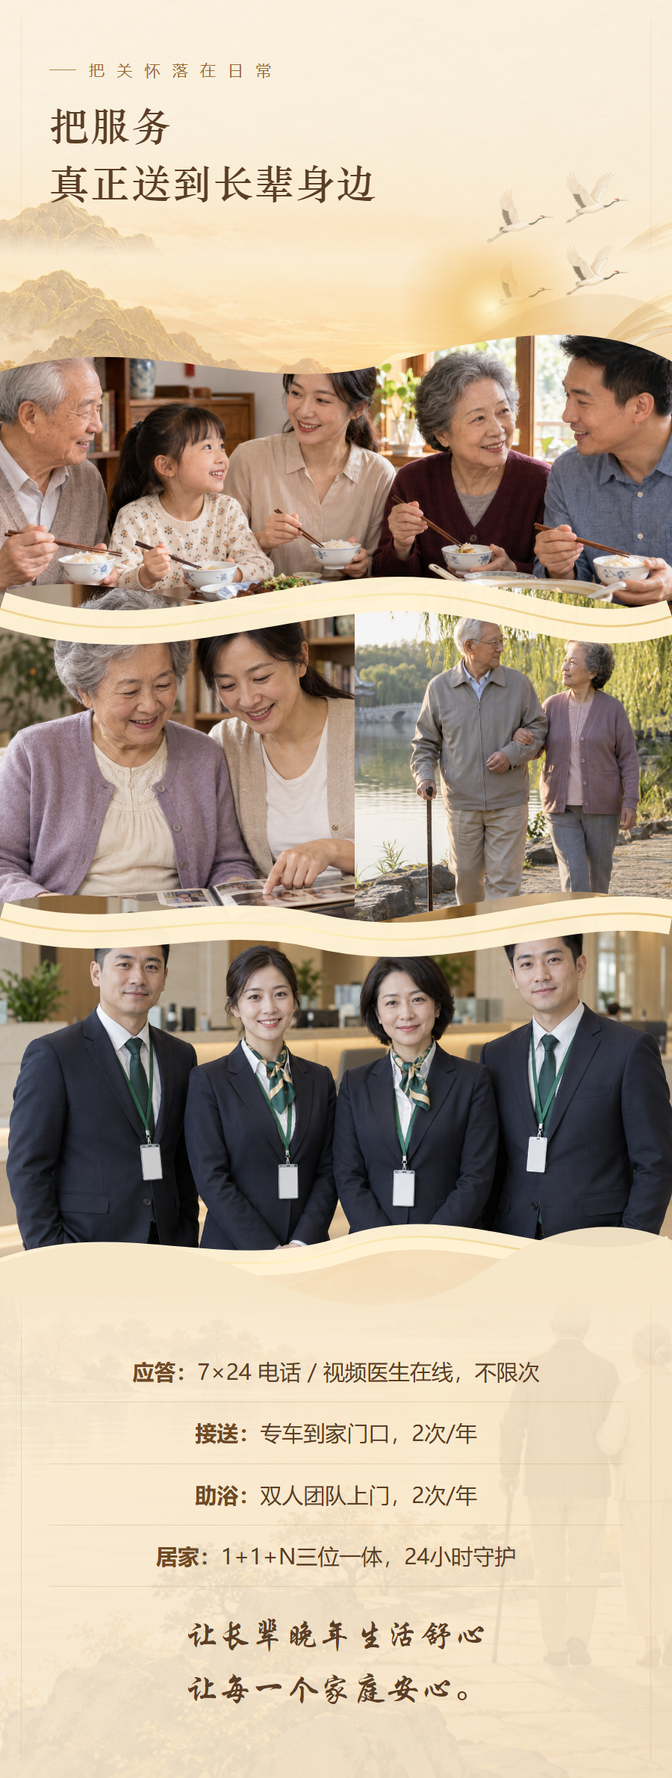
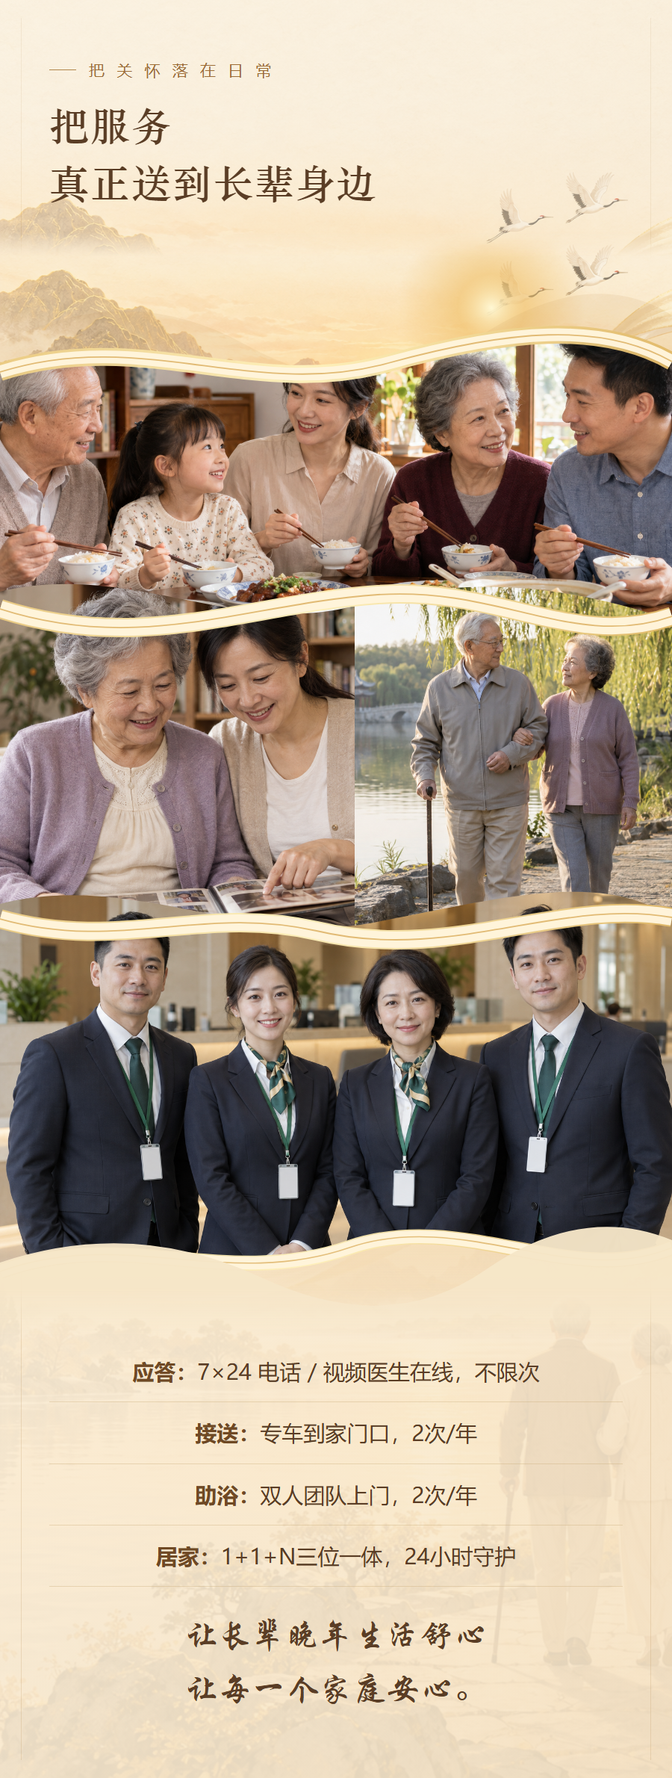
Restore V5 ribbons and refine mobile cover

diff --git a/anxiang-svg/native-preview.html b/anxiang-svg/native-preview.html
@@ -1,42 +1,41 @@
-<!doctype html><meta charset="utf-8"><meta name="viewport" content="width=device-width,initial-scale=1"><style>*{box-sizing:border-box}html,body{margin:0;background:#f7ead2}main{max-width:900px;margin:auto}</style><main><svg xmlns="http://www.w3.org/2000/svg" xmlns:xlink="http://www.w3.org/1999/xlink" id="ax8_root" width="900" viewBox="0 0 900 1950" preserveAspectRatio="xMinYMin meet" style="display:block;width:100%;height:auto;overflow:hidden;overflow-anchor:none;-webkit-tap-highlight-color:transparent;user-select:none;background:#f7ead2">
+<!doctype html><meta charset="utf-8"><meta name="viewport" content="width=device-width,initial-scale=1"><style>*{box-sizing:border-box}html,body{margin:0;background:#f7ead2}main{max-width:900px;margin:auto}</style><main><svg xmlns="http://www.w3.org/2000/svg" xmlns:xlink="http://www.w3.org/1999/xlink" id="ax8_root" width="900" viewBox="0 0 900 1480" preserveAspectRatio="xMinYMin meet" style="display:block;width:100%;height:auto;overflow:hidden;overflow-anchor:none;-webkit-tap-highlight-color:transparent;user-select:none;background:#f7ead2">
 <defs>
  <radialGradient id="ax8_sun"><stop stop-color="#fff8cf" stop-opacity=".85"/><stop offset=".35" stop-color="#ffd78c" stop-opacity=".42"/><stop offset="1" stop-color="#ffd78c" stop-opacity="0"/></radialGradient>
  <linearGradient id="ax8_gold" x1="0" x2="1"><stop stop-color="#d2a14e"/><stop offset=".48" stop-color="#f7dda0"/><stop offset=".78" stop-color="#fff3bd"/><stop offset="1" stop-color="#c58b35"/></linearGradient>
  <linearGradient id="ax8_shine" x1="0" x2="1"><stop stop-color="#fff" stop-opacity="0"/><stop offset=".5" stop-color="#fff5c0" stop-opacity=".8"/><stop offset="1" stop-color="#fff" stop-opacity="0"/></linearGradient>
  <linearGradient id="ax8_mist" x1="0" x2="1"><stop stop-color="#f7ead5"/><stop offset=".74" stop-color="#f9ecd7"/><stop offset="1" stop-color="#f9ecd7" stop-opacity=".72"/></linearGradient>
- <linearGradient id="ax8_edge" x1="0" x2="1"><stop stop-color="#c89039"/><stop offset=".3" stop-color="#f1cf78"/><stop offset=".57" stop-color="#fff1ad"/><stop offset=".8" stop-color="#dfae50"/><stop offset="1" stop-color="#b8792d"/></linearGradient><linearGradient id="ax8_coverExtension" x1="0" y1="0" x2="0" y2="1"><stop stop-color="#f6e6c7"/><stop offset="1" stop-color="#edcf99"/></linearGradient>
+ <linearGradient id="ax8_coverExtension" x1="0" y1="0" x2="0" y2="1"><stop stop-color="#f3dfbb"/><stop offset="1" stop-color="#efd2a0"/></linearGradient><linearGradient id="ax8_coverFade" x1="0" y1="0" x2="0" y2="1"><stop stop-color="#f5e1c1" stop-opacity="0"/><stop offset=".72" stop-color="#f5e1c1"/><stop offset="1" stop-color="#f3dfbb"/></linearGradient>
  <clipPath id="ax8_cardBirdA"><rect x="688" y="35" width="132" height="112"/></clipPath><clipPath id="ax8_cardBirdB"><rect x="802" y="75" width="98" height="100"/></clipPath>
  <clipPath id="ax8_formula1"><rect x="36" y="220" width="243" height="220"/></clipPath><clipPath id="ax8_formula2"><rect x="279" y="220" width="306" height="220"/></clipPath><clipPath id="ax8_formula3"><rect x="576" y="220" width="288" height="220"/></clipPath>
  <clipPath id="ax8_close1"><rect x="130" y="165" width="0" height="105"><animate attributeName="width" from="0" to="640" dur="1.7s" begin="ax8_open.click+7.1s" fill="freeze"/></rect></clipPath><clipPath id="ax8_close2"><rect x="150" y="260" width="0" height="110"><animate attributeName="width" from="0" to="610" dur="1.8s" begin="ax8_open.click+8.55s" fill="freeze"/></rect></clipPath>
 </defs>
-<animate attributeName="viewBox" values="0 0 900 1950;0 0 900 3300;0 0 900 4650;0 0 900 6130;0 0 900 7446;0 0 900 8778;0 0 900 10898;0 0 900 13278;0 0 900 14608" begin="ax8_open.click" dur="7.2s" calcMode="linear" keyTimes="0.000;0.125;0.250;0.375;0.500;0.625;0.750;0.875;1.000" fill="freeze" restart="never"/>
-<rect x="0" y="0" width="900" height="1950" fill="url(#ax8_coverExtension)"/><image href="images/01.png" x="0" y="0" width="900" height="1350" preserveAspectRatio="none"/><path d="M0 1420 C160 1372 290 1460 455 1415 C610 1372 748 1450 900 1408 V1950 H0Z" fill="#e9c991" opacity=".18"/><path d="M-30 1530 C150 1488 310 1578 480 1525 C650 1475 790 1565 930 1515" fill="none" stroke="#fff0c9" stroke-width="8" opacity=".42"/>
-<image href="images/02.png" x="0" y="1950" width="900" height="1350" preserveAspectRatio="none"/>
-<image href="motion-bg/03.png" x="0" y="3300" width="900" height="1350" preserveAspectRatio="none"/>
-<image href="motion-bg/04.png" x="0" y="4650" width="900" height="1480" preserveAspectRatio="none"/>
-<image href="motion-bg/05.png" x="0" y="6130" width="900" height="1316" preserveAspectRatio="none"/>
-<image href="motion-bg/06.png" x="0" y="7446" width="900" height="1332" preserveAspectRatio="none"/>
-<image href="motion-bg/07.png" x="0" y="8778" width="900" height="2120" preserveAspectRatio="none"/>
-<image href="images/08.png" x="0" y="10898" width="900" height="2380" preserveAspectRatio="none"/>
-<image href="motion-bg/09.png" x="0" y="13278" width="900" height="1330" preserveAspectRatio="none"/>
+<animate attributeName="viewBox" values="0 0 900 1480;0 0 900 2830;0 0 900 4180;0 0 900 5660;0 0 900 6976;0 0 900 8308;0 0 900 10428;0 0 900 12808;0 0 900 14138" begin="ax8_open.click" dur="7.2s" calcMode="linear" keyTimes="0.000;0.125;0.250;0.375;0.500;0.625;0.750;0.875;1.000" fill="freeze" restart="never"/>
+<rect x="0" y="0" width="900" height="1480" fill="url(#ax8_coverExtension)"/><image href="images/01.png" x="0" y="0" width="900" height="1350" preserveAspectRatio="none"/><rect x="0" y="1298" width="900" height="92" fill="url(#ax8_coverFade)"/>
+<image href="images/02.png" x="0" y="1480" width="900" height="1350" preserveAspectRatio="none"/>
+<image href="motion-bg/03.png" x="0" y="2830" width="900" height="1350" preserveAspectRatio="none"/>
+<image href="motion-bg/04.png" x="0" y="4180" width="900" height="1480" preserveAspectRatio="none"/>
+<image href="motion-bg/05.png" x="0" y="5660" width="900" height="1316" preserveAspectRatio="none"/>
+<image href="motion-bg/06.png" x="0" y="6976" width="900" height="1332" preserveAspectRatio="none"/>
+<image href="motion-bg/07.png" x="0" y="8308" width="900" height="2120" preserveAspectRatio="none"/>
+<image href="images/08.png" x="0" y="10428" width="900" height="2380" preserveAspectRatio="none"/>
+<image href="motion-bg/09.png" x="0" y="12808" width="900" height="1330" preserveAspectRatio="none"/>
 <ellipse cx="675" cy="516" rx="135" ry="110" fill="url(#ax8_sun)" opacity=".13"><animate attributeName="opacity" values=".13;.25;.13" dur="5.8s" repeatCount="3"/></ellipse>
 <rect x="26" y="142" width="255" height="438" rx="28" fill="url(#ax8_mist)" opacity=".98"><animate attributeName="x" from="26" to="281" dur="1.05s" begin=".25s" fill="freeze"/><animate attributeName="width" from="255" to="0" dur="1.05s" begin=".25s" fill="freeze"/><animate attributeName="opacity" from=".98" to="0" dur="1.05s" begin=".25s" fill="freeze"/></rect><rect x="154" y="485" width="76" height="112" rx="16" fill="url(#ax8_mist)" opacity=".99"><animate attributeName="x" from="154" to="230" dur=".8s" begin="1.2s" fill="freeze"/><animate attributeName="width" from="76" to="0" dur=".8s" begin="1.2s" fill="freeze"/><animate attributeName="opacity" from=".99" to="0" dur=".8s" begin="1.2s" fill="freeze"/></rect><rect x="246" y="156" width="630" height="298" rx="32" fill="url(#ax8_mist)" opacity=".97"><animate attributeName="x" from="246" to="876" dur="1.15s" begin="1.85s" fill="freeze"/><animate attributeName="width" from="630" to="0" dur="1.15s" begin="1.85s" fill="freeze"/><animate attributeName="opacity" from=".97" to="0" dur="1.15s" begin="1.85s" fill="freeze"/></rect>
-<path d="M-18 475 C78 487 83 593 180 635 C276 677 315 801 425 800 C535 790 565 730 665 735 C760 745 830 785 918 822" fill="none" stroke="#8e5e25" stroke-opacity=".32" stroke-width="28" stroke-linecap="round"/><path d="M-18 475 C78 487 83 593 180 635 C276 677 315 801 425 800 C535 790 565 730 665 735 C760 745 830 785 918 822" fill="none" stroke="url(#ax8_edge)" stroke-width="20" stroke-linecap="round"/><path d="M-18 470 C78 482 83 588 180 630 C276 672 315 796 425 795 C535 785 565 725 665 730 C760 740 830 780 918 817" fill="none" stroke="#fff0ad" stroke-opacity=".68" stroke-width="4" stroke-linecap="round"/>
-<g id="ax8_hint" transform="translate(225 1690)"><rect width="450" height="92" rx="46" fill="#fff4d8" fill-opacity=".9" stroke="#a87332" stroke-opacity=".55"/><circle cx="88" cy="46" r="9" fill="#b88035"><animate attributeName="r" values="9;14;9" dur="1.6s" repeatCount="indefinite"/></circle><text x="122" y="57" font-size="32" fill="#68451f" font-family="Microsoft YaHei,PingFang SC,sans-serif" letter-spacing="3">点击查看服务</text><set attributeName="visibility" to="hidden" begin="ax8_open.click" fill="freeze"/></g>
-<rect id="ax8_open" x="0" y="0" width="900" height="1950" fill="#fff" fill-opacity="0" pointer-events="all" style="-webkit-tap-highlight-color:transparent"/><set href="#ax8_open" attributeName="visibility" to="hidden" begin="ax8_open.click+7.3s" fill="freeze"/>
+<g id="ax8_hint" transform="translate(282 1380)" fill="#68451f"><circle cx="20" cy="22" r="8" fill="#b88035"><animate attributeName="r" values="8;6;8" dur="1.6s" repeatCount="indefinite"/></circle><circle cx="20" cy="22" r="17" fill="none" stroke="#b88035" stroke-width="2" opacity=".5"><animate attributeName="r" values="17;22;17" dur="1.6s" repeatCount="indefinite"/><animate attributeName="opacity" values=".5;.16;.5" dur="1.6s" repeatCount="indefinite"/></circle><text x="56" y="33" font-size="30" font-family="Microsoft YaHei,PingFang SC,sans-serif" letter-spacing="3">点击查看服务</text><set attributeName="visibility" to="hidden" begin="ax8_open.click" fill="freeze"/></g>
+<rect id="ax8_open" x="0" y="0" width="900" height="1480" fill="#fff" fill-opacity="0" pointer-events="all" style="-webkit-tap-highlight-color:transparent"/><set href="#ax8_open" attributeName="visibility" to="hidden" begin="ax8_open.click+7.3s" fill="freeze"/>
 <!-- 第二页：封面点击后打开书，正文四行依次显露 -->
-<g transform="translate(0 1950)"><rect x="0" y="270" width="900" height="520" fill="#f8e8cc"><animate attributeName="opacity" from="1" to="0" dur=".9s" begin="ax8_open.click+1.75s" fill="freeze"/></rect><rect x="105" y="445" width="690" height="58" fill="#f8e8cc"><animate attributeName="fill" from="#f8e8cc" to="#fff6e6" dur=".15s" begin="ax8_open.click+2.1s" fill="freeze"/><animate attributeName="width" from="690" to="0" dur=".48s" begin="ax8_open.click+2.65s" fill="freeze"/></rect><rect x="105" y="501" width="690" height="58" fill="#f8e8cc"><animate attributeName="fill" from="#f8e8cc" to="#fff6e6" dur=".15s" begin="ax8_open.click+2.1s" fill="freeze"/><animate attributeName="width" from="690" to="0" dur=".48s" begin="ax8_open.click+2.9499999999999997s" fill="freeze"/></rect><rect x="105" y="557" width="690" height="58" fill="#f8e8cc"><animate attributeName="fill" from="#f8e8cc" to="#fff6e6" dur=".15s" begin="ax8_open.click+2.1s" fill="freeze"/><animate attributeName="width" from="690" to="0" dur=".48s" begin="ax8_open.click+3.25s" fill="freeze"/></rect><rect x="105" y="613" width="690" height="58" fill="#f8e8cc"><animate attributeName="fill" from="#f8e8cc" to="#fff6e6" dur=".15s" begin="ax8_open.click+2.1s" fill="freeze"/><animate attributeName="width" from="690" to="0" dur=".48s" begin="ax8_open.click+3.55s" fill="freeze"/></rect><g transform="translate(294 326)"><g><rect x="-18" y="18" width="344" height="402" rx="21" fill="#855124" opacity=".72"/><rect x="0" y="0" width="330" height="410" rx="20" fill="url(#ax8_gold)" stroke="#8d5726" stroke-width="5"/><rect x="15" y="16" width="299" height="378" rx="13" fill="none" stroke="#f6dc91" stroke-width="3" opacity=".72"/><rect x="0" y="0" width="30" height="410" rx="14" fill="#8f5825" opacity=".9"/><circle cx="164" cy="204" r="60" fill="none" stroke="#f8e2a0" stroke-width="4" opacity=".72"/><path d="M164 164 L202 204 L164 244 L126 204Z" fill="none" stroke="#f8e2a0" stroke-width="4" opacity=".72"/><animateTransform attributeName="transform" type="scale" values="1 1;.06 1" dur="1.15s" begin="ax8_open.click+1.75s" fill="freeze"/><animate attributeName="opacity" from="1" to="0" dur=".82s" begin="ax8_open.click+1.95s" fill="freeze"/></g></g><ellipse cx="748" cy="228" rx="95" ry="75" fill="url(#ax8_sun)" opacity=".08"><animate attributeName="opacity" values=".08;.18;.08" dur="5s" begin="ax8_open.click+1.7s" repeatCount="3"/></ellipse></g>
+<g transform="translate(0 1480)"><rect x="0" y="270" width="900" height="520" fill="#f8e8cc"><animate attributeName="opacity" from="1" to="0" dur=".9s" begin="ax8_open.click+1.75s" fill="freeze"/></rect><rect x="105" y="445" width="690" height="58" fill="#f8e8cc"><animate attributeName="fill" from="#f8e8cc" to="#fff6e6" dur=".15s" begin="ax8_open.click+2.1s" fill="freeze"/><animate attributeName="width" from="690" to="0" dur=".48s" begin="ax8_open.click+2.65s" fill="freeze"/></rect><rect x="105" y="501" width="690" height="58" fill="#f8e8cc"><animate attributeName="fill" from="#f8e8cc" to="#fff6e6" dur=".15s" begin="ax8_open.click+2.1s" fill="freeze"/><animate attributeName="width" from="690" to="0" dur=".48s" begin="ax8_open.click+2.9499999999999997s" fill="freeze"/></rect><rect x="105" y="557" width="690" height="58" fill="#f8e8cc"><animate attributeName="fill" from="#f8e8cc" to="#fff6e6" dur=".15s" begin="ax8_open.click+2.1s" fill="freeze"/><animate attributeName="width" from="690" to="0" dur=".48s" begin="ax8_open.click+3.25s" fill="freeze"/></rect><rect x="105" y="613" width="690" height="58" fill="#f8e8cc"><animate attributeName="fill" from="#f8e8cc" to="#fff6e6" dur=".15s" begin="ax8_open.click+2.1s" fill="freeze"/><animate attributeName="width" from="690" to="0" dur=".48s" begin="ax8_open.click+3.55s" fill="freeze"/></rect><g transform="translate(294 326)"><g><rect x="-18" y="18" width="344" height="402" rx="21" fill="#855124" opacity=".72"/><rect x="0" y="0" width="330" height="410" rx="20" fill="url(#ax8_gold)" stroke="#8d5726" stroke-width="5"/><rect x="15" y="16" width="299" height="378" rx="13" fill="none" stroke="#f6dc91" stroke-width="3" opacity=".72"/><rect x="0" y="0" width="30" height="410" rx="14" fill="#8f5825" opacity=".9"/><circle cx="164" cy="204" r="60" fill="none" stroke="#f8e2a0" stroke-width="4" opacity=".72"/><path d="M164 164 L202 204 L164 244 L126 204Z" fill="none" stroke="#f8e2a0" stroke-width="4" opacity=".72"/><animateTransform attributeName="transform" type="scale" values="1 1;.06 1" dur="1.15s" begin="ax8_open.click+1.75s" fill="freeze"/><animate attributeName="opacity" from="1" to="0" dur=".82s" begin="ax8_open.click+1.95s" fill="freeze"/></g></g><ellipse cx="748" cy="228" rx="95" ry="75" fill="url(#ax8_sun)" opacity=".08"><animate attributeName="opacity" values=".08;.18;.08" dur="5s" begin="ax8_open.click+1.7s" repeatCount="3"/></ellipse></g>
 <!-- 第三页：四卡自动柔光 -->
-<g transform="translate(0 3300)"><path d="M-160 622 L-60 622 L150 950 L40 950Z" fill="url(#ax8_shine)" opacity="0"><animate attributeName="opacity" values="0;.65;0" dur="2.4s" begin="ax8_open.click+3s" repeatCount="2"/><animateTransform attributeName="transform" type="translate" from="0 0" to="1000 0" dur="2.4s" begin="ax8_open.click+3s" repeatCount="2"/></path><g clip-path="url(#ax8_cardBirdA)"><image href="images/03.png" width="900" height="1350"><animateTransform attributeName="transform" type="translate" values="0 0;7 -4;0 0" dur="7s" begin="ax8_open.click+2.7s" repeatCount="3"/></image></g><g clip-path="url(#ax8_cardBirdB)"><image href="images/03.png" width="900" height="1350"><animateTransform attributeName="transform" type="translate" values="0 0;-5 4;0 0" dur="9s" begin="ax8_open.click+2.7s" repeatCount="3"/></image></g></g>
-<g transform="translate(0 3300)"><g transform="translate(66 175)"><g><image href="title-layers/03.png" x="-66" y="-175" width="900" height="1350" preserveAspectRatio="none"/><animateTransform attributeName="transform" type="scale" values="1;1.03;1" dur=".72s" begin="v8_title3_hit.click" repeatCount="3"/></g></g><rect id="v8_title3_hit" x="45" y="65" width="810" height="260" fill="#fff" fill-opacity="0" pointer-events="all" style="-webkit-tap-highlight-color:transparent"/></g>
-<g transform="translate(0 4650)"><g transform="translate(66 121)"><g><image href="title-layers/04.png" x="-66" y="-121" width="900" height="1480" preserveAspectRatio="none"/><animateTransform attributeName="transform" type="scale" values="1;1.03;1" dur=".72s" begin="v8_title4_hit.click" repeatCount="3"/></g></g><rect id="v8_title4_hit" x="45" y="65" width="810" height="260" fill="#fff" fill-opacity="0" pointer-events="all" style="-webkit-tap-highlight-color:transparent"/></g>
-<g transform="translate(0 6130)"><g transform="translate(66 121)"><g><image href="title-layers/05.png" x="-66" y="-121" width="900" height="1316" preserveAspectRatio="none"/><animateTransform attributeName="transform" type="scale" values="1;1.03;1" dur=".72s" begin="v8_title5_hit.click" repeatCount="3"/></g></g><rect id="v8_title5_hit" x="45" y="65" width="810" height="260" fill="#fff" fill-opacity="0" pointer-events="all" style="-webkit-tap-highlight-color:transparent"/></g>
-<g transform="translate(0 7446)"><g transform="translate(66 121)"><g><image href="title-layers/06.png" x="-66" y="-121" width="900" height="1332" preserveAspectRatio="none"/><animateTransform attributeName="transform" type="scale" values="1;1.03;1" dur=".72s" begin="v8_title6_hit.click" repeatCount="3"/></g></g><rect id="v8_title6_hit" x="45" y="65" width="810" height="260" fill="#fff" fill-opacity="0" pointer-events="all" style="-webkit-tap-highlight-color:transparent"/></g>
-<g transform="translate(0 8778)"><g transform="translate(66 117)"><g><image href="title-layers/07.png" x="-66" y="-117" width="900" height="2120" preserveAspectRatio="none"/><animateTransform attributeName="transform" type="scale" values="1;1.03;1" dur=".72s" begin="v8_title7_hit.click" repeatCount="3"/></g></g><rect id="v8_title7_hit" x="45" y="65" width="810" height="260" fill="#fff" fill-opacity="0" pointer-events="all" style="-webkit-tap-highlight-color:transparent"/></g>
-<g transform="translate(0 8778)"><g clip-path="url(#ax8_formula1)" opacity="0" transform="translate(-108 0)"><image href="formula-layers/07.png" width="900" height="2120"/><animate attributeName="opacity" from="0" to="1" dur=".78s" begin="v8_title7_hit.click+.16s" fill="freeze"/><animateTransform attributeName="transform" type="translate" from="-108 0" to="0 0" dur=".78s" begin="v8_title7_hit.click+.16s" fill="freeze"/></g><g clip-path="url(#ax8_formula2)" opacity="0" transform="translate(-108 0)"><image href="formula-layers/07.png" width="900" height="2120"/><animate attributeName="opacity" from="0" to="1" dur=".82s" begin="v8_title7_hit.click+.58s" fill="freeze"/><animateTransform attributeName="transform" type="translate" from="-108 0" to="0 0" dur=".82s" begin="v8_title7_hit.click+.58s" fill="freeze"/></g><g clip-path="url(#ax8_formula3)" opacity="0" transform="translate(-108 0)"><image href="formula-layers/07.png" width="900" height="2120"/><animate attributeName="opacity" from="0" to="1" dur=".86s" begin="v8_title7_hit.click+1.02s" fill="freeze"/><animateTransform attributeName="transform" type="translate" from="-108 0" to="0 0" dur=".86s" begin="v8_title7_hit.click+1.02s" fill="freeze"/></g></g>
+<g transform="translate(0 2830)"><path d="M-160 622 L-60 622 L150 950 L40 950Z" fill="url(#ax8_shine)" opacity="0"><animate attributeName="opacity" values="0;.65;0" dur="2.4s" begin="ax8_open.click+3s" repeatCount="2"/><animateTransform attributeName="transform" type="translate" from="0 0" to="1000 0" dur="2.4s" begin="ax8_open.click+3s" repeatCount="2"/></path><g clip-path="url(#ax8_cardBirdA)"><image href="images/03.png" width="900" height="1350"><animateTransform attributeName="transform" type="translate" values="0 0;7 -4;0 0" dur="7s" begin="ax8_open.click+2.7s" repeatCount="3"/></image></g><g clip-path="url(#ax8_cardBirdB)"><image href="images/03.png" width="900" height="1350"><animateTransform attributeName="transform" type="translate" values="0 0;-5 4;0 0" dur="9s" begin="ax8_open.click+2.7s" repeatCount="3"/></image></g></g>
+<g transform="translate(0 2830)"><g transform="translate(66 175)"><g><image href="title-layers/03.png" x="-66" y="-175" width="900" height="1350" preserveAspectRatio="none"/><animateTransform attributeName="transform" type="scale" values="1;1.03;1" dur=".72s" begin="v8_title3_hit.click" repeatCount="3"/></g></g><rect id="v8_title3_hit" x="45" y="65" width="810" height="260" fill="#fff" fill-opacity="0" pointer-events="all" style="-webkit-tap-highlight-color:transparent"/></g>
+<g transform="translate(0 4180)"><g transform="translate(66 121)"><g><image href="title-layers/04.png" x="-66" y="-121" width="900" height="1480" preserveAspectRatio="none"/><animateTransform attributeName="transform" type="scale" values="1;1.03;1" dur=".72s" begin="v8_title4_hit.click" repeatCount="3"/></g></g><rect id="v8_title4_hit" x="45" y="65" width="810" height="260" fill="#fff" fill-opacity="0" pointer-events="all" style="-webkit-tap-highlight-color:transparent"/></g>
+<g transform="translate(0 5660)"><g transform="translate(66 121)"><g><image href="title-layers/05.png" x="-66" y="-121" width="900" height="1316" preserveAspectRatio="none"/><animateTransform attributeName="transform" type="scale" values="1;1.03;1" dur=".72s" begin="v8_title5_hit.click" repeatCount="3"/></g></g><rect id="v8_title5_hit" x="45" y="65" width="810" height="260" fill="#fff" fill-opacity="0" pointer-events="all" style="-webkit-tap-highlight-color:transparent"/></g>
+<g transform="translate(0 6976)"><g transform="translate(66 121)"><g><image href="title-layers/06.png" x="-66" y="-121" width="900" height="1332" preserveAspectRatio="none"/><animateTransform attributeName="transform" type="scale" values="1;1.03;1" dur=".72s" begin="v8_title6_hit.click" repeatCount="3"/></g></g><rect id="v8_title6_hit" x="45" y="65" width="810" height="260" fill="#fff" fill-opacity="0" pointer-events="all" style="-webkit-tap-highlight-color:transparent"/></g>
+<g transform="translate(0 8308)"><g transform="translate(66 117)"><g><image href="title-layers/07.png" x="-66" y="-117" width="900" height="2120" preserveAspectRatio="none"/><animateTransform attributeName="transform" type="scale" values="1;1.03;1" dur=".72s" begin="v8_title7_hit.click" repeatCount="3"/></g></g><rect id="v8_title7_hit" x="45" y="65" width="810" height="260" fill="#fff" fill-opacity="0" pointer-events="all" style="-webkit-tap-highlight-color:transparent"/></g>
+<g transform="translate(0 8308)"><g clip-path="url(#ax8_formula1)" opacity="0" transform="translate(-108 0)"><image href="formula-layers/07.png" width="900" height="2120"/><animate attributeName="opacity" from="0" to="1" dur=".78s" begin="v8_title7_hit.click+.16s" fill="freeze"/><animateTransform attributeName="transform" type="translate" from="-108 0" to="0 0" dur=".78s" begin="v8_title7_hit.click+.16s" fill="freeze"/></g><g clip-path="url(#ax8_formula2)" opacity="0" transform="translate(-108 0)"><image href="formula-layers/07.png" width="900" height="2120"/><animate attributeName="opacity" from="0" to="1" dur=".82s" begin="v8_title7_hit.click+.58s" fill="freeze"/><animateTransform attributeName="transform" type="translate" from="-108 0" to="0 0" dur=".82s" begin="v8_title7_hit.click+.58s" fill="freeze"/></g><g clip-path="url(#ax8_formula3)" opacity="0" transform="translate(-108 0)"><image href="formula-layers/07.png" width="900" height="2120"/><animate attributeName="opacity" from="0" to="1" dur=".86s" begin="v8_title7_hit.click+1.02s" fill="freeze"/><animateTransform attributeName="transform" type="translate" from="-108 0" to="0 0" dur=".86s" begin="v8_title7_hit.click+1.02s" fill="freeze"/></g></g>
 <!-- 第八页保持静态画卷，避免破坏真人照片和宽丝带 -->
 <!-- 第九页：两行主标题从左到右、从上到下依次显露 -->
-<g transform="translate(0 13278)"><g clip-path="url(#ax8_close1)"><image href="title-layers/09.png" width="900" height="1330" preserveAspectRatio="none"/></g><g clip-path="url(#ax8_close2)"><image href="title-layers/09.png" width="900" height="1330" preserveAspectRatio="none"/></g></g>
+<g transform="translate(0 12808)"><g clip-path="url(#ax8_close1)"><image href="title-layers/09.png" width="900" height="1330" preserveAspectRatio="none"/></g><g clip-path="url(#ax8_close2)"><image href="title-layers/09.png" width="900" height="1330" preserveAspectRatio="none"/></g></g>
 <!-- 第九页：湖面低透明波光，限在左侧水域 -->
-<g transform="translate(0 13278)" stroke="#fff2bb" stroke-linecap="round" opacity="0"><animate attributeName="opacity" values="0;.24;.08;0" dur="4s" begin="ax8_open.click+5s" repeatCount="2" fill="freeze"/><path d="M60 1070h135 M250 1104h110 M110 1142h180 M330 1170h170" stroke-width="3"><animateTransform attributeName="transform" type="translate" values="-7 0;8 0;-7 0" dur="3.4s" repeatCount="2"/></path></g>
+<g transform="translate(0 12808)" stroke="#fff2bb" stroke-linecap="round" opacity="0"><animate attributeName="opacity" values="0;.24;.08;0" dur="4s" begin="ax8_open.click+5s" repeatCount="2" fill="freeze"/><path d="M60 1070h135 M250 1104h110 M110 1142h180 M330 1170h170" stroke-width="3"><animateTransform attributeName="transform" type="translate" values="-7 0;8 0;-7 0" dur="3.4s" repeatCount="2"/></path></g>
 </svg></main>

diff --git a/anxiang-svg/index.html b/anxiang-svg/index.html
@@ -1,19 +1,17 @@
 <!doctype html><html lang="zh-CN"><head><meta charset="utf-8"><meta name="viewport" content="width=device-width,initial-scale=1,viewport-fit=cover"><title>农银人寿｜安享服务</title>
 <style>
-*{box-sizing:border-box}html,body{margin:0;background:#f7ead2;color:#664725;overflow-anchor:none}body{font-family:"PingFang SC","Microsoft YaHei",sans-serif;-webkit-tap-highlight-color:transparent}main{width:min(100%,900px);margin:auto;overflow:hidden;background:#f7ead2}.page{position:relative;width:100%;overflow:hidden;line-height:0}.page>img{display:block;width:100%;height:100%;object-fit:fill}.overlay{position:absolute;inset:0;width:100%;height:100%;pointer-events:none}.cover{aspect-ratio:2/3;min-height:100svh;cursor:pointer;touch-action:manipulation;user-select:none;background:linear-gradient(#f7ead2 0,#f5e3c3 74%,#edd2a2 100%)}.cover>img,.cover>.overlay{height:auto;aspect-ratio:2/3}.cover:active{filter:none}.rest{overflow:hidden}.rest>.page{max-height:0;opacity:0;transform:translateY(-18px);transition:max-height .92s cubic-bezier(.22,.65,.3,1),opacity .5s ease,transform .72s cubic-bezier(.22,.65,.3,1)}.rest>.page.unfolded{max-height:3000px;opacity:1;transform:none}.hint{animation:hintFloat 1.6s ease-in-out infinite}.hint circle{animation:dotGlow 1.6s ease-in-out infinite}@keyframes hintFloat{50%{transform:translateY(-5px)}}@keyframes dotGlow{50%{r:10px;opacity:.35}}.sun-glow{animation:sunBreath 5.8s ease-in-out infinite}@keyframes sunBreath{50%{opacity:.26;transform:scale(1.08)}}.word-veil{transform-box:fill-box;transform-origin:right center;filter:url(#mistBlur)}.word-veil.anj{animation:wordReveal 1.05s .25s cubic-bezier(.3,.7,.25,1) forwards}.word-veil.service-word{animation:wordReveal .8s 1.2s cubic-bezier(.3,.7,.25,1) forwards}.word-veil.en-word{animation:wordReveal 1.15s 1.85s cubic-bezier(.3,.7,.25,1) forwards}@keyframes wordReveal{to{transform:scaleX(0);opacity:0}}.crane-photo-a{animation:craneA 7s ease-in-out infinite}.crane-photo-b{animation:craneB 9s ease-in-out infinite}@keyframes craneA{50%{transform:translate(7px,-4px)}}@keyframes craneB{50%{transform:translate(-5px,4px)}}.book-left,.book-right{fill:#f2d6a4;stroke:#b88949;stroke-width:5;filter:drop-shadow(0 12px 12px rgba(86,54,22,.25));transform-box:fill-box;transition:transform 1.1s cubic-bezier(.2,.7,.2,1),opacity .85s}.book-left{transform-origin:right center}.book-right{transform-origin:left center}.book-spine{transition:opacity .6s .45s}.played .book-left{transform:perspective(650px) rotateY(-78deg);opacity:0}.played .book-right{transform:perspective(650px) rotateY(78deg);opacity:0}.played .book-spine{opacity:0}.text-veil{fill:#fff6e6;transition:transform .5s ease,opacity .35s;transform-origin:right center}.played .text-veil:nth-of-type(1){transition-delay:1s}.played .text-veil:nth-of-type(2){transition-delay:1.3s}.played .text-veil:nth-of-type(3){transition-delay:1.6s}.played .text-veil:nth-of-type(4){transition-delay:1.9s}.played .text-veil{transform:scaleX(0);opacity:.2}.card-shine{opacity:0}.played .card-shine{animation:cardSheen 2.4s .25s ease-in-out 2}@keyframes cardSheen{0%{opacity:0;transform:translateX(-220px)}30%{opacity:.64}70%{opacity:.2}100%{opacity:0;transform:translateX(980px)}}.title-layer{position:absolute;inset:0;width:100%;height:100%;object-fit:fill;pointer-events:none;transform-origin:7.4% 8%;clip-path:polygon(6.5% 6%,94% 6%,94% 20%,6.5% 20%)}.page-03 .title-layer{transform-origin:7.4% 13%!important}.page-07 .title-layer{clip-path:polygon(6.5% 5%,94% 5%,94% 12%,6.5% 12%)}.played .title-layer{animation:titlePulse .72s ease-in-out 3}@keyframes titlePulse{50%{transform:scale(1.045)}}.shimmer{position:absolute;left:4%;width:58%;height:2px;background:linear-gradient(90deg,transparent,rgba(255,246,195,.75),transparent);opacity:0;transform:translateX(-10px)}.played .shimmer{animation:shimmer 3.4s ease-in-out 2}.shimmer.s1{top:80%;width:47%;animation-delay:.1s}.shimmer.s2{top:83%;left:11%;width:50%;animation-delay:.55s}.shimmer.s3{top:86%;left:6%;width:39%;animation-delay:1s}.shimmer.s4{top:89%;left:18%;width:42%;animation-delay:1.45s}@keyframes shimmer{20%{opacity:.15}50%{opacity:.6;transform:translateX(9px)}85%{opacity:.12}100%{opacity:0;transform:translateX(0)}}.cover.opened .hint{opacity:0;transition:opacity .25s}.cover.opened{cursor:default}.badge{position:fixed;right:10px;bottom:10px;z-index:5;padding:6px 10px;border-radius:999px;background:rgba(255,250,238,.86);color:#82603a;font-size:12px;line-height:1;box-shadow:0 2px 12px rgba(75,45,20,.12);opacity:0;pointer-events:none}.badge.show{animation:badge 2s ease}@keyframes badge{20%,70%{opacity:1}100%{opacity:0}}
+*{box-sizing:border-box}html,body{margin:0;background:#efd2a0;color:#664725;overflow-anchor:none}body{font-family:"PingFang SC","Microsoft YaHei",sans-serif;-webkit-tap-highlight-color:transparent}main{width:min(100%,900px);margin:auto;overflow:hidden;background:#f7ead2}.page{position:relative;width:100%;overflow:hidden;line-height:0}.page>img{display:block;width:100%;height:100%;object-fit:fill}.overlay{position:absolute;inset:0;width:100%;height:100%;pointer-events:none}.cover{height:calc(min(150vw,1350px) + 58px);cursor:pointer;touch-action:manipulation;user-select:none;background:#f2dab0}.cover>img,.cover>.overlay{height:auto;aspect-ratio:2/3}.cover:active{filter:none}.rest{overflow:hidden}.rest>.page{max-height:0;opacity:0;transform:translateY(-18px);transition:max-height .92s cubic-bezier(.22,.65,.3,1),opacity .5s ease,transform .72s cubic-bezier(.22,.65,.3,1)}.rest>.page.unfolded{max-height:3000px;opacity:1;transform:none}.hint{animation:hintFloat 1.6s ease-in-out infinite}.hint circle{animation:dotGlow 1.6s ease-in-out infinite}@keyframes hintFloat{50%{transform:translateY(-5px)}}@keyframes dotGlow{50%{r:10px;opacity:.35}}.sun-glow{animation:sunBreath 5.8s ease-in-out infinite}@keyframes sunBreath{50%{opacity:.26;transform:scale(1.08)}}.word-veil{transform-box:fill-box;transform-origin:right center;filter:url(#mistBlur)}.word-veil.anj{animation:wordReveal 1.05s .25s cubic-bezier(.3,.7,.25,1) forwards}.word-veil.service-word{animation:wordReveal .8s 1.2s cubic-bezier(.3,.7,.25,1) forwards}.word-veil.en-word{animation:wordReveal 1.15s 1.85s cubic-bezier(.3,.7,.25,1) forwards}@keyframes wordReveal{to{transform:scaleX(0);opacity:0}}.crane-photo-a{animation:craneA 7s ease-in-out infinite}.crane-photo-b{animation:craneB 9s ease-in-out infinite}@keyframes craneA{50%{transform:translate(7px,-4px)}}@keyframes craneB{50%{transform:translate(-5px,4px)}}.book-left,.book-right{fill:#f2d6a4;stroke:#b88949;stroke-width:5;filter:drop-shadow(0 12px 12px rgba(86,54,22,.25));transform-box:fill-box;transition:transform 1.1s cubic-bezier(.2,.7,.2,1),opacity .85s}.book-left{transform-origin:right center}.book-right{transform-origin:left center}.book-spine{transition:opacity .6s .45s}.played .book-left{transform:perspective(650px) rotateY(-78deg);opacity:0}.played .book-right{transform:perspective(650px) rotateY(78deg);opacity:0}.played .book-spine{opacity:0}.text-veil{fill:#fff6e6;transition:transform .5s ease,opacity .35s;transform-origin:right center}.played .text-veil:nth-of-type(1){transition-delay:1s}.played .text-veil:nth-of-type(2){transition-delay:1.3s}.played .text-veil:nth-of-type(3){transition-delay:1.6s}.played .text-veil:nth-of-type(4){transition-delay:1.9s}.played .text-veil{transform:scaleX(0);opacity:.2}.card-shine{opacity:0}.played .card-shine{animation:cardSheen 2.4s .25s ease-in-out 2}@keyframes cardSheen{0%{opacity:0;transform:translateX(-220px)}30%{opacity:.64}70%{opacity:.2}100%{opacity:0;transform:translateX(980px)}}.title-layer{position:absolute;inset:0;width:100%;height:100%;object-fit:fill;pointer-events:none;transform-origin:7.4% 8%;clip-path:polygon(6.5% 6%,94% 6%,94% 20%,6.5% 20%)}.page-03 .title-layer{transform-origin:7.4% 13%!important}.page-07 .title-layer{clip-path:polygon(6.5% 5%,94% 5%,94% 12%,6.5% 12%)}.played .title-layer{animation:titlePulse .72s ease-in-out 3}@keyframes titlePulse{50%{transform:scale(1.045)}}.shimmer{position:absolute;left:4%;width:58%;height:2px;background:linear-gradient(90deg,transparent,rgba(255,246,195,.75),transparent);opacity:0;transform:translateX(-10px)}.played .shimmer{animation:shimmer 3.4s ease-in-out 2}.shimmer.s1{top:80%;width:47%;animation-delay:.1s}.shimmer.s2{top:83%;left:11%;width:50%;animation-delay:.55s}.shimmer.s3{top:86%;left:6%;width:39%;animation-delay:1s}.shimmer.s4{top:89%;left:18%;width:42%;animation-delay:1.45s}@keyframes shimmer{20%{opacity:.15}50%{opacity:.6;transform:translateX(9px)}85%{opacity:.12}100%{opacity:0;transform:translateX(0)}}.cover.opened .hint{opacity:0;transition:opacity .25s}.cover.opened{cursor:default}.badge{position:fixed;right:10px;bottom:10px;z-index:5;padding:6px 10px;border-radius:999px;background:rgba(255,250,238,.86);color:#82603a;font-size:12px;line-height:1;box-shadow:0 2px 12px rgba(75,45,20,.12);opacity:0;pointer-events:none}.badge.show{animation:badge 2s ease}@keyframes badge{20%,70%{opacity:1}100%{opacity:0}}
 @media(prefers-reduced-motion:reduce){*{animation-duration:.01ms!important;animation-delay:0s!important;transition-duration:.01ms!important}.text-veil,.book-backdrop,.closed-book,.word-veil{opacity:0!important}}
 .book-backdrop{fill:#f8e8cc;transition:opacity .9s .35s}.closed-book{filter:drop-shadow(0 14px 14px rgba(83,52,20,.28));transform-box:fill-box;transform-origin:left center;transition:transform 1.15s cubic-bezier(.2,.72,.22,1),opacity .82s .2s}.played .book-backdrop{opacity:0}.played .closed-book{transform:perspective(700px) rotateY(-82deg) translateX(-22px);opacity:0}.page-02 .text-veil{fill:#f8e8cc;transition:transform .5s ease,opacity .35s,fill .18s .42s}.page-02.played .text-veil{fill:#fff6e6}.title-layer{clip-path:none!important;transform-origin:7.4% 8%!important}.page-03 .title-layer{transform-origin:7.4% 13%!important}.page-07 .title-layer{clip-path:none!important;transform-origin:7.4% 5.5%!important}.formula-layer{position:absolute;inset:0;width:100%;height:100%;object-fit:fill;pointer-events:none;opacity:0;transform:translateX(-12%)}.formula-layer.f1{clip-path:polygon(4% 10.5%,31% 10.5%,31% 20.5%,4% 20.5%)}.formula-layer.f2{clip-path:polygon(31% 10.5%,65% 10.5%,65% 20.5%,31% 20.5%)}.formula-layer.f3{clip-path:polygon(64% 10.5%,96% 10.5%,96% 20.5%,64% 20.5%)}.played .formula-layer.f1{animation:formulaEnter .78s .16s cubic-bezier(.18,.72,.24,1) forwards}.played .formula-layer.f2{animation:formulaEnter .82s .58s cubic-bezier(.18,.72,.24,1) forwards}.played .formula-layer.f3{animation:formulaEnter .86s 1.02s cubic-bezier(.18,.72,.24,1) forwards}@keyframes formulaEnter{to{opacity:1;transform:translateX(0)}}@keyframes titlePulse{0%,100%{transform:scale(1)}50%{transform:scale(1.03)}}
-.cover:after{content:'';position:absolute;z-index:0;left:0;right:0;top:min(150vw,1350px);bottom:0;background:radial-gradient(ellipse at 50% 4%,rgba(224,169,75,.24),transparent 48%),linear-gradient(180deg,#f4dfbb,#efd2a0);pointer-events:none}.cover-tail{position:absolute;z-index:1;left:0;right:0;top:min(150vw,1350px);bottom:0;width:100%;height:auto;pointer-events:none}.cover-cta{position:absolute;z-index:3;left:50%;bottom:max(34px,env(safe-area-inset-bottom));transform:translateX(-50%);display:flex;align-items:center;gap:14px;white-space:nowrap;font-size:clamp(18px,4.8vw,31px);line-height:1.2;letter-spacing:3px;color:#68451f;text-shadow:0 1px 0 #fff2d6;background:rgba(255,245,219,.86);border:1px solid rgba(166,112,42,.48);border-radius:999px;padding:14px 27px;box-shadow:0 8px 28px rgba(112,67,20,.18)}.cover-cta i{width:13px;height:13px;border-radius:50%;background:#ba8235;box-shadow:0 0 0 7px rgba(186,130,53,.18);animation:ctaPulse 1.6s ease-in-out infinite}@keyframes ctaPulse{50%{box-shadow:0 0 0 12px rgba(186,130,53,.08);transform:scale(.88)}}.cover.opened .cover-cta{opacity:0;transition:opacity .25s}.closing-title-line{position:absolute;inset:0;width:100%;height:100%;object-fit:fill;pointer-events:none}.closing-title-line.line-1{clip-path:polygon(6% 10%,6% 10%,6% 19%,6% 19%)}.closing-title-line.line-2{clip-path:polygon(6% 18%,6% 18%,6% 28%,6% 28%)}.page-09.played .closing-title-line.line-1{animation:closingReveal1 1.7s .25s cubic-bezier(.25,.65,.25,1) forwards}.page-09.played .closing-title-line.line-2{animation:closingReveal2 1.8s 1.72s cubic-bezier(.25,.65,.25,1) forwards}@keyframes closingReveal1{to{clip-path:polygon(6% 10%,94% 10%,94% 19%,6% 19%)}}@keyframes closingReveal2{to{clip-path:polygon(6% 18%,94% 18%,94% 28%,6% 28%)}}
+.cover:before{content:'';position:absolute;z-index:2;left:0;right:0;top:calc(min(150vw,1350px) - 42px);height:70px;background:linear-gradient(180deg,transparent,#f5e1c1 72%,#f3dfbb);pointer-events:none}.cover:after{content:'';position:absolute;z-index:0;left:0;right:0;top:min(150vw,1350px);bottom:0;background:linear-gradient(180deg,#f3dfbb 0%,#efd2a0 100%);pointer-events:none}.cover-cta{position:absolute;z-index:3;left:50%;bottom:max(16px,env(safe-area-inset-bottom));transform:translateX(-50%);display:flex;align-items:center;gap:13px;white-space:nowrap;font-size:clamp(17px,4.4vw,26px);line-height:1.2;letter-spacing:3px;color:#68451f;text-shadow:0 1px 0 #fff2d6}.cover-cta i{position:relative;width:11px;height:11px;border-radius:50%;background:#b88035;animation:ctaPulse 1.6s ease-in-out infinite}.cover-cta i:after{content:'';position:absolute;inset:-7px;border:2px solid rgba(184,128,53,.5);border-radius:50%;animation:ctaRing 1.6s ease-in-out infinite}@keyframes ctaPulse{50%{transform:scale(.78);opacity:.7}}@keyframes ctaRing{50%{transform:scale(1.32);opacity:.18}}.cover.opened .cover-cta{opacity:0;transition:opacity .25s}.closing-title-line{position:absolute;inset:0;width:100%;height:100%;object-fit:fill;pointer-events:none}.closing-title-line.line-1{clip-path:polygon(6% 10%,6% 10%,6% 19%,6% 19%)}.closing-title-line.line-2{clip-path:polygon(6% 18%,6% 18%,6% 28%,6% 28%)}.page-09.played .closing-title-line.line-1{animation:closingReveal1 1.7s .25s cubic-bezier(.25,.65,.25,1) forwards}.page-09.played .closing-title-line.line-2{animation:closingReveal2 1.8s 1.72s cubic-bezier(.25,.65,.25,1) forwards}@keyframes closingReveal1{to{clip-path:polygon(6% 10%,94% 10%,94% 19%,6% 19%)}}@keyframes closingReveal2{to{clip-path:polygon(6% 18%,94% 18%,94% 28%,6% 28%)}}
 </style></head><body><main>
 <section class="page cover" id="cover" aria-label="安享服务封面，点击查看服务">
  <img src="images/01.png" alt="农银人寿安享服务封面">
  <svg class="overlay" viewBox="0 0 900 1350" aria-hidden="true">
-  <defs><radialGradient id="sun"><stop stop-color="#fff9cf" stop-opacity=".92"/><stop offset=".36" stop-color="#ffd989" stop-opacity=".5"/><stop offset="1" stop-color="#ffd989" stop-opacity="0"/></radialGradient><linearGradient id="wordMist" x1="0" x2="1"><stop stop-color="#f7ead5"/><stop offset=".74" stop-color="#f9ecd7"/><stop offset="1" stop-color="#f9ecd7" stop-opacity=".72"/></linearGradient><linearGradient id="ribbonEdge" x1="0" x2="1"><stop stop-color="#c89039"/><stop offset=".3" stop-color="#f1cf78"/><stop offset=".57" stop-color="#fff1ad"/><stop offset=".8" stop-color="#dfae50"/><stop offset="1" stop-color="#b8792d"/></linearGradient><filter id="mistBlur" x="-8%" y="-8%" width="116%" height="116%"><feGaussianBlur stdDeviation="9"/></filter></defs>
+  <defs><radialGradient id="sun"><stop stop-color="#fff9cf" stop-opacity=".92"/><stop offset=".36" stop-color="#ffd989" stop-opacity=".5"/><stop offset="1" stop-color="#ffd989" stop-opacity="0"/></radialGradient><linearGradient id="wordMist" x1="0" x2="1"><stop stop-color="#f7ead5"/><stop offset=".74" stop-color="#f9ecd7"/><stop offset="1" stop-color="#f9ecd7" stop-opacity=".72"/></linearGradient><filter id="mistBlur" x="-8%" y="-8%" width="116%" height="116%"><feGaussianBlur stdDeviation="9"/></filter></defs>
   <ellipse class="sun-glow" cx="675" cy="516" rx="138" ry="112" fill="url(#sun)" opacity=".14"/>
   <rect class="word-veil anj" x="26" y="142" width="255" height="438" rx="28" fill="url(#wordMist)" opacity=".98"/><rect class="word-veil service-word" x="154" y="485" width="76" height="112" rx="16" fill="url(#wordMist)" opacity=".99"/><rect class="word-veil en-word" x="246" y="156" width="630" height="298" rx="32" fill="url(#wordMist)" opacity=".97"/>
-  <path d="M-18 475 C78 487 83 593 180 635 C276 677 315 801 425 800 C535 790 565 730 665 735 C760 745 830 785 918 822" fill="none" stroke="#8e5e25" stroke-opacity=".32" stroke-width="28" stroke-linecap="round"/><path d="M-18 475 C78 487 83 593 180 635 C276 677 315 801 425 800 C535 790 565 730 665 735 C760 745 830 785 918 822" fill="none" stroke="url(#ribbonEdge)" stroke-width="20" stroke-linecap="round"/><path d="M-18 470 C78 482 83 588 180 630 C276 672 315 796 425 795 C535 785 565 725 665 730 C760 740 830 780 918 817" fill="none" stroke="#fff0ad" stroke-opacity=".68" stroke-width="4" stroke-linecap="round"/>
  </svg>
- <svg class="cover-tail" viewBox="0 0 900 430" preserveAspectRatio="none" aria-hidden="true"><defs><linearGradient id="tailMist" x1="0" y1="0" x2="0" y2="1"><stop stop-color="#f4dfbb" stop-opacity="0"/><stop offset=".32" stop-color="#f0d49f" stop-opacity=".38"/><stop offset="1" stop-color="#e8c685" stop-opacity=".58"/></linearGradient></defs><rect width="900" height="430" fill="url(#tailMist)"/><path d="M0 260 C105 210 174 250 266 218 C356 187 434 252 530 216 C631 178 717 236 900 186 V430 H0Z" fill="#d7ac67" opacity=".11"/><path d="M-30 290 C120 242 236 318 375 274 C515 231 654 308 930 232" fill="none" stroke="#fff0c9" stroke-width="9" opacity=".52"/><path d="M-30 335 C164 282 303 367 476 322 C650 277 761 352 930 304" fill="none" stroke="#b98945" stroke-width="2" opacity=".22"/></svg>
  <div class="cover-cta"><i aria-hidden="true"></i><span>点击查看服务</span></div>
 </section>
 <div class="rest" id="rest">
